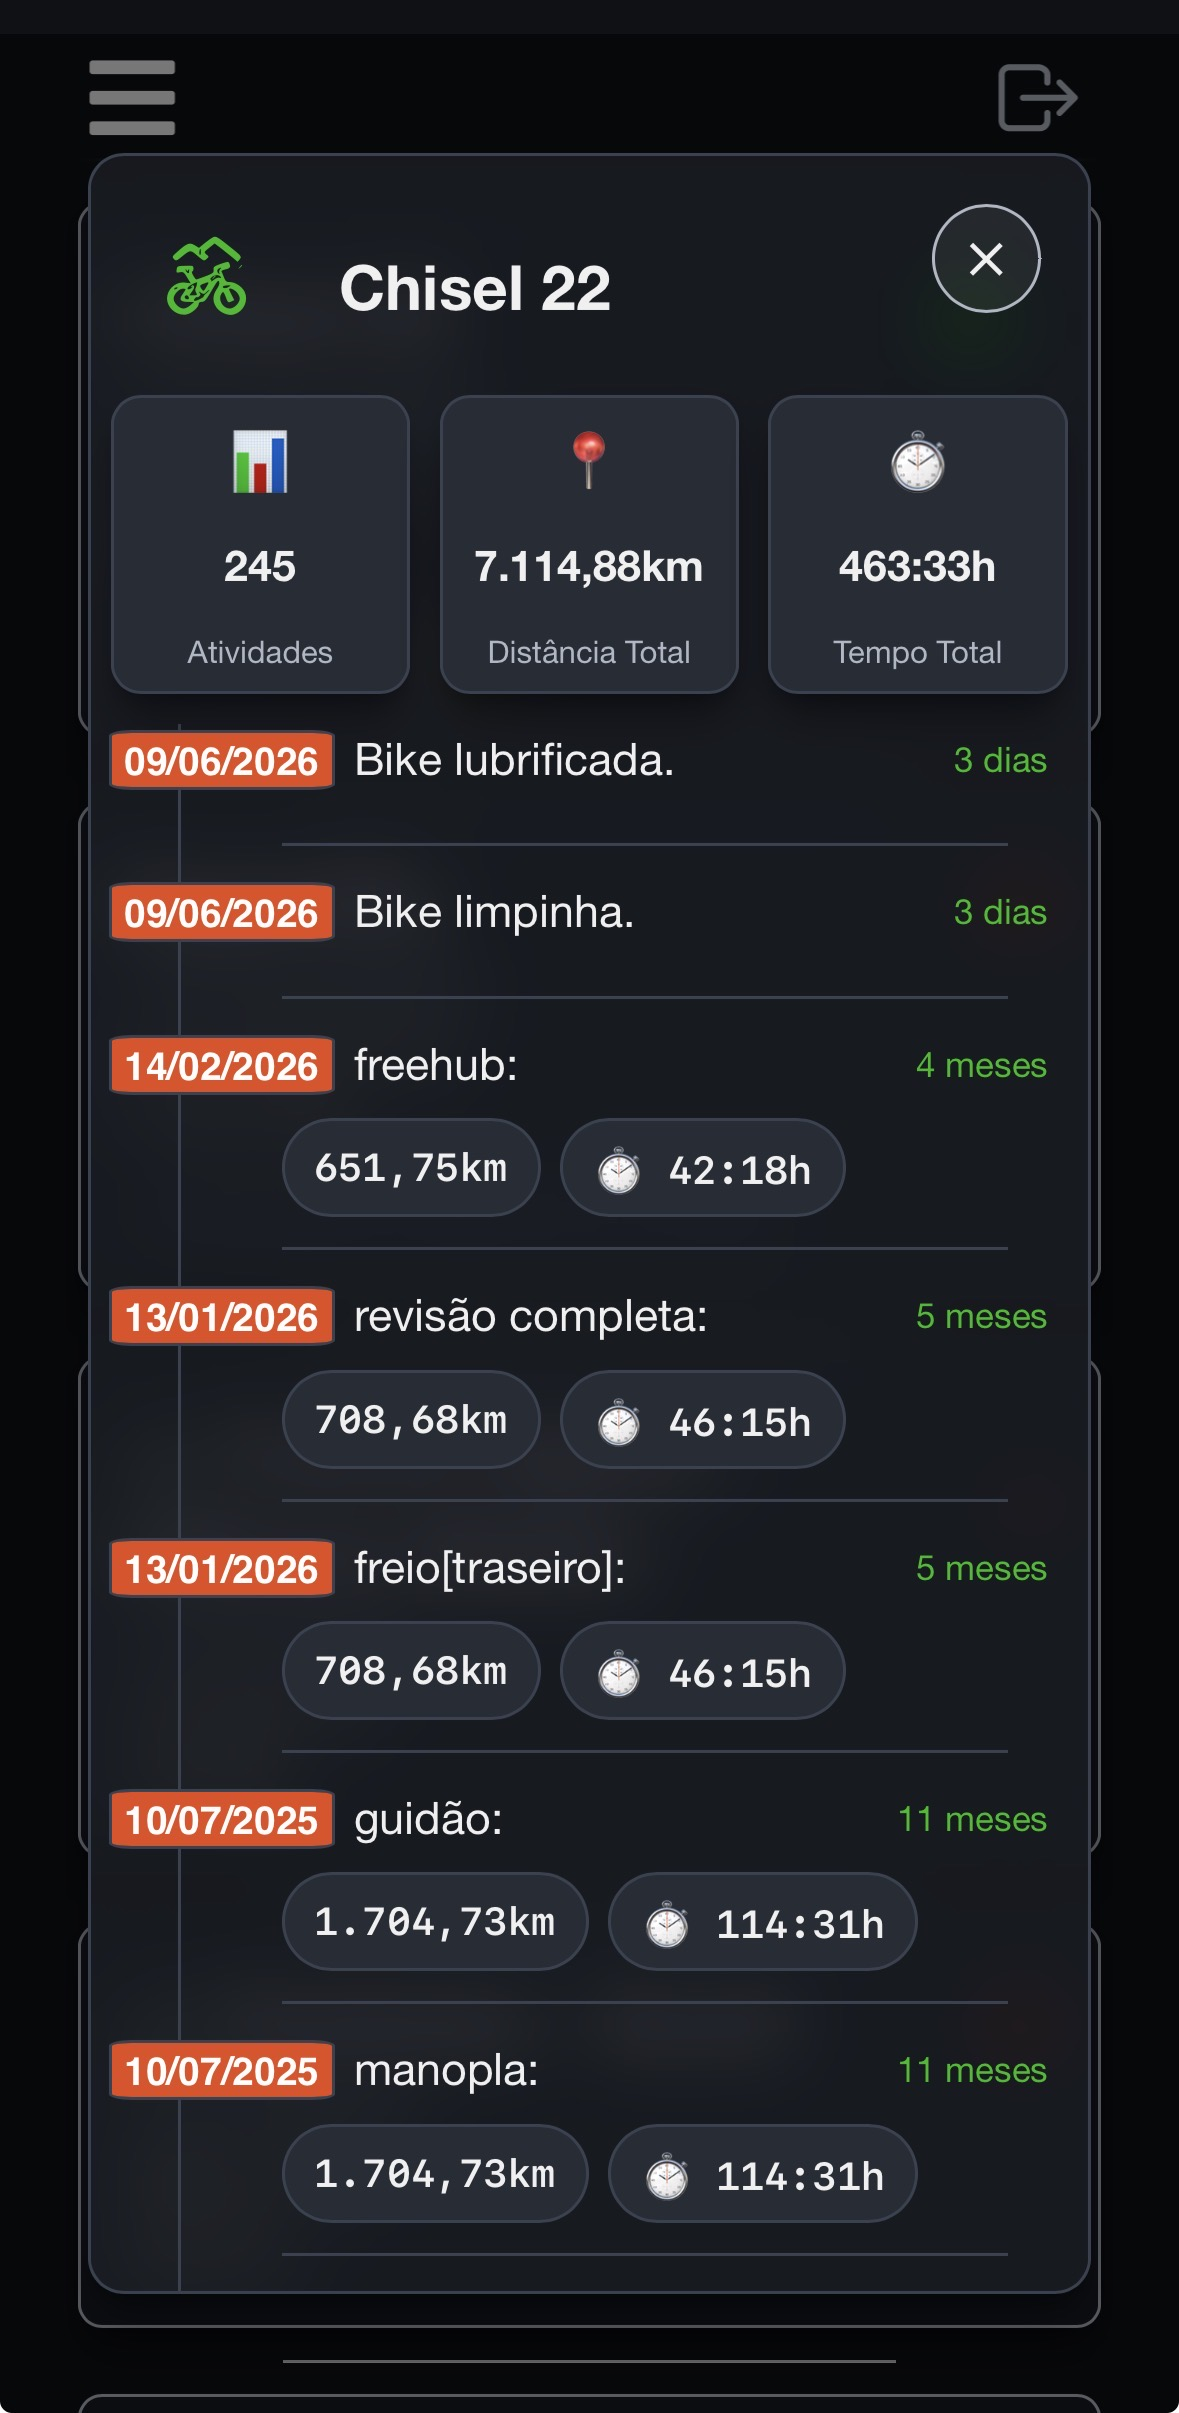
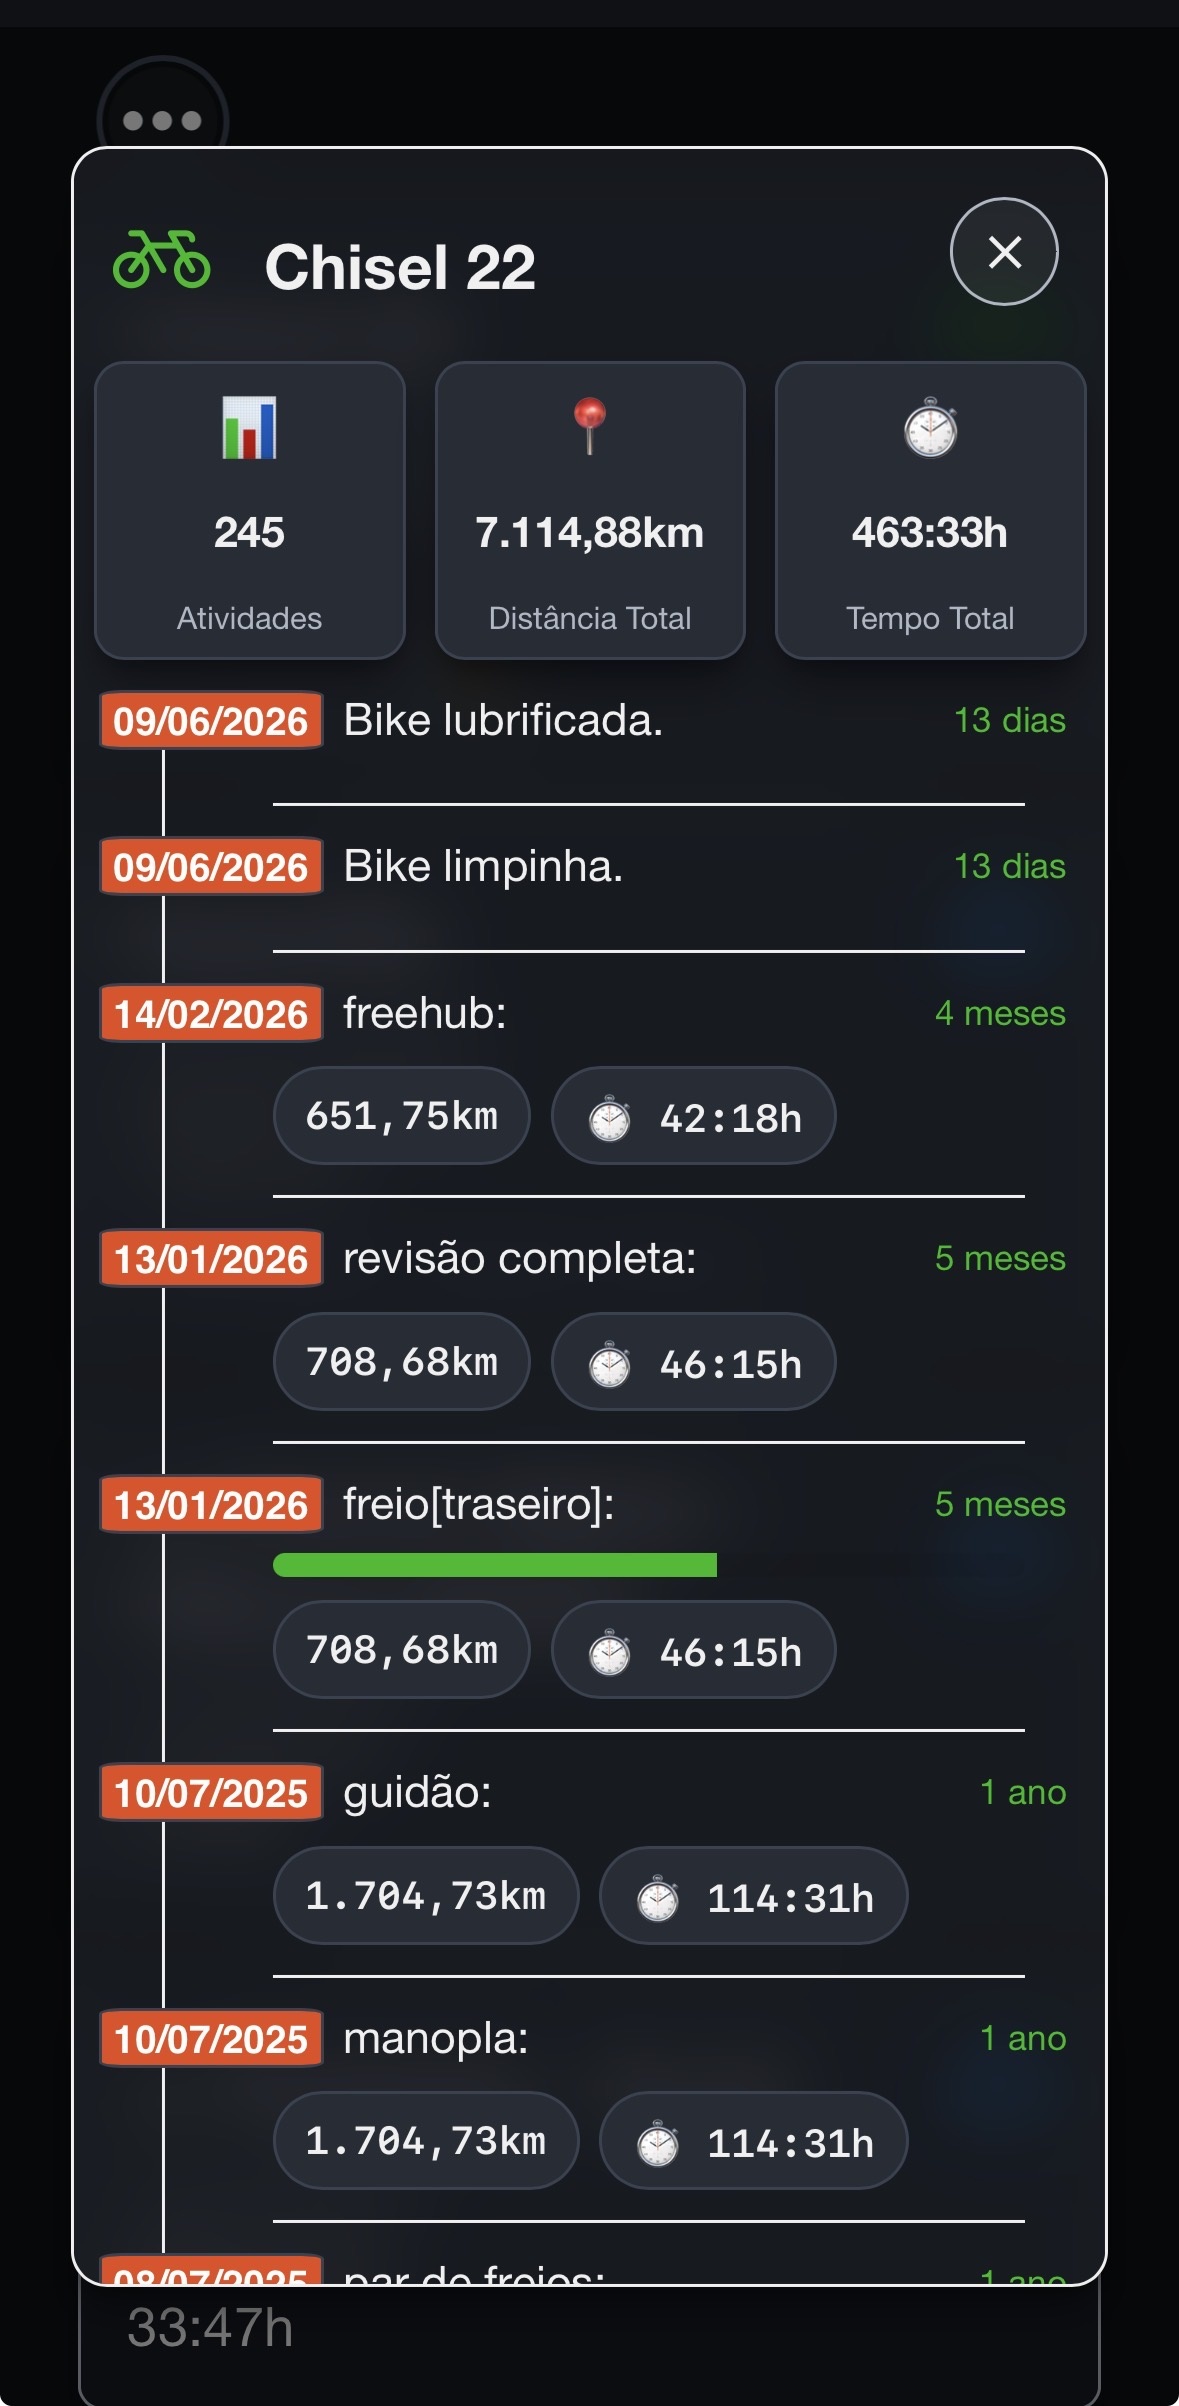
Merge pull request #49 from rbalbix/fix/images
(fix) images

Pull request: (fix) images

diff --git a/src/components/HowItWorksContent.tsx b/src/components/HowItWorksContent.tsx
@@ -29,8 +29,11 @@ export default function HowItWorksContent({
         Strava.
       </div>
       <h2>Passo 1: Acesso Inicial e Login</h2>
-      <div>Ao abrir o aplicativo, você verá a seguinte tela inicial:</div>
-      <div className={styles.screen}>
+      <div>
+        Ao abrir o aplicativo, você verá uma tela para fazer login ou ele te
+        redirecionará para a tela de login do Strava.
+      </div>
+      {/* <div className={styles.screen}>
         <Image
           src='/images/login.png'
           alt='Tela inicial do aplicativo com botão de login via Strava'
@@ -41,9 +44,9 @@ export default function HowItWorksContent({
           blurDataURL={BLUR_DATA_URL}
           sizes='(max-width: 480px) 90vw, 240px'
         />
-      </div>
+      </div> */}
       <ol>
-        <li>
+        {/* <li>
           Clique no ícone{' '}
           <IoLogInOutline
             color='var(--gl-brand-primary)'
@@ -56,7 +59,7 @@ export default function HowItWorksContent({
         </li>
         <li>
           Você será redirecionado para a página de autenticação do Strava.
-        </li>
+        </li> */}
         <li>
           Insira suas credenciais do Strava e autorize a conexão com o
           aplicativo.